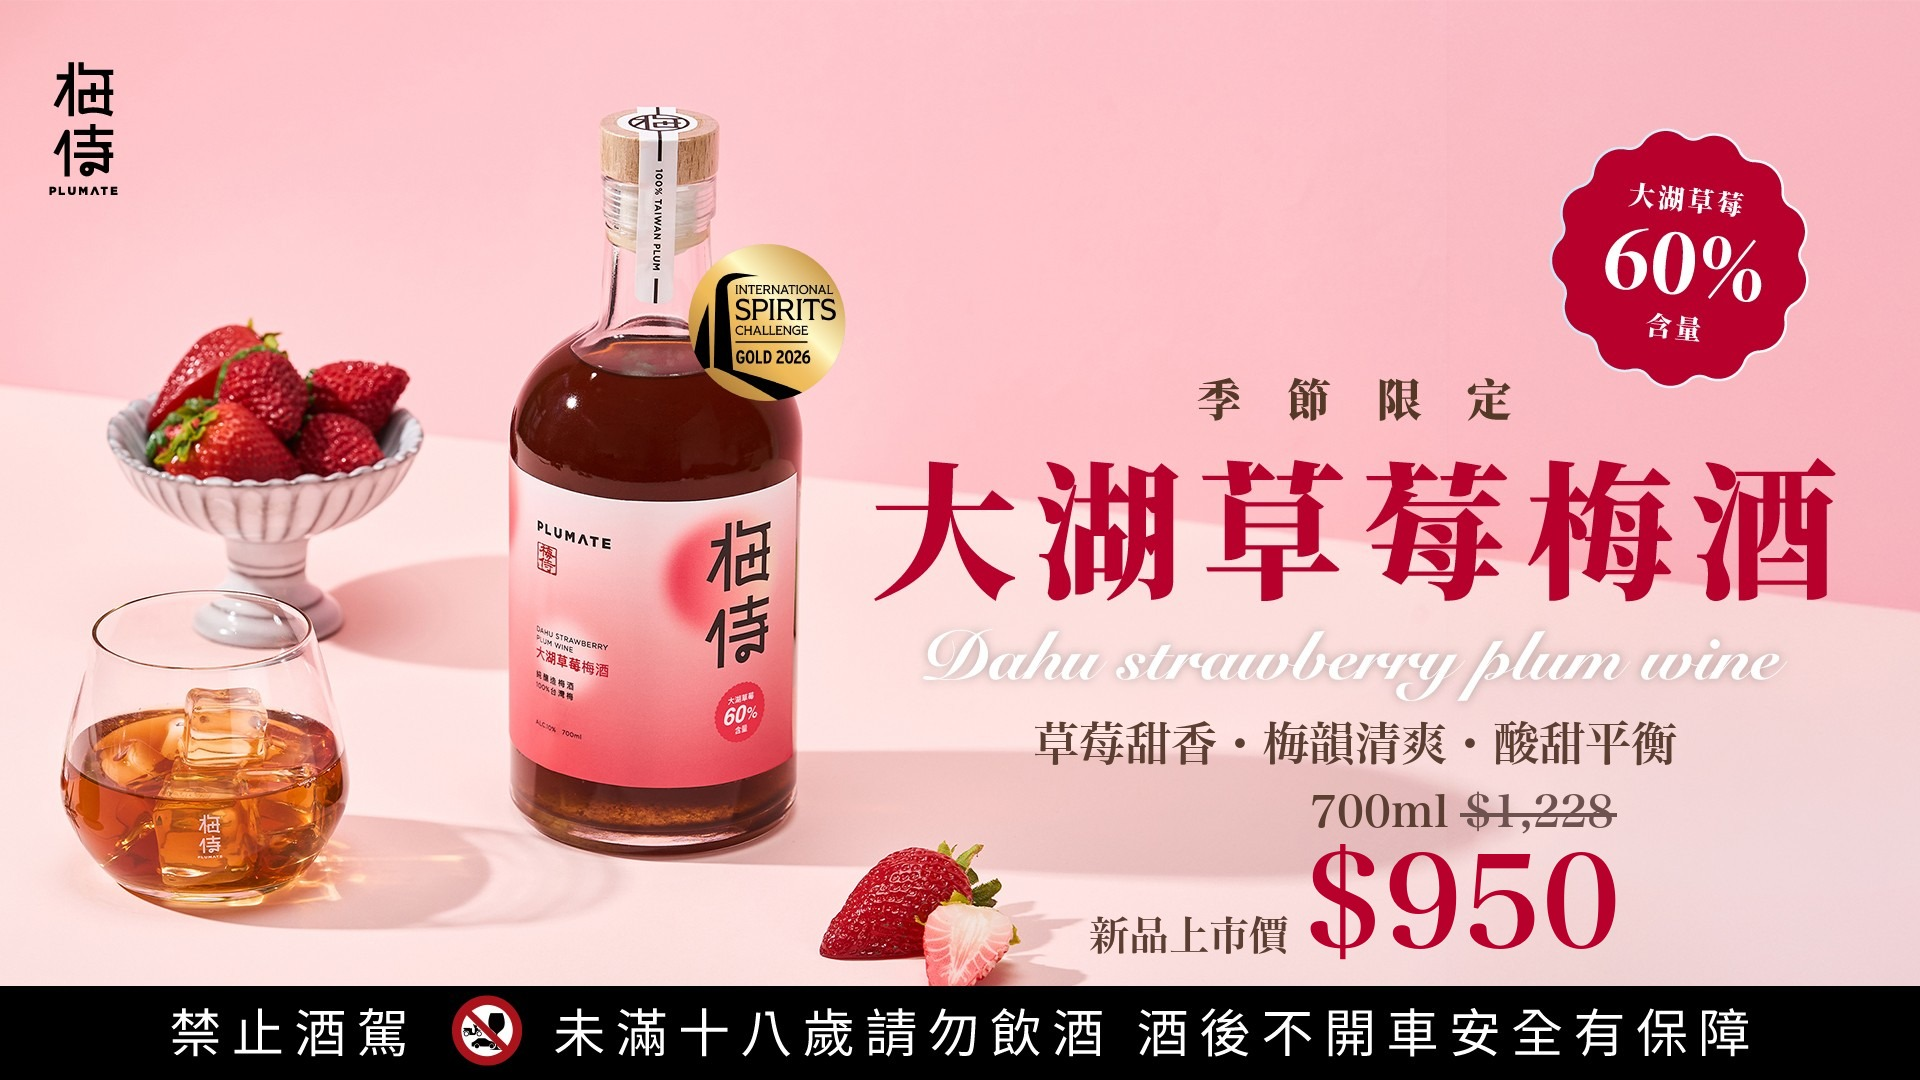
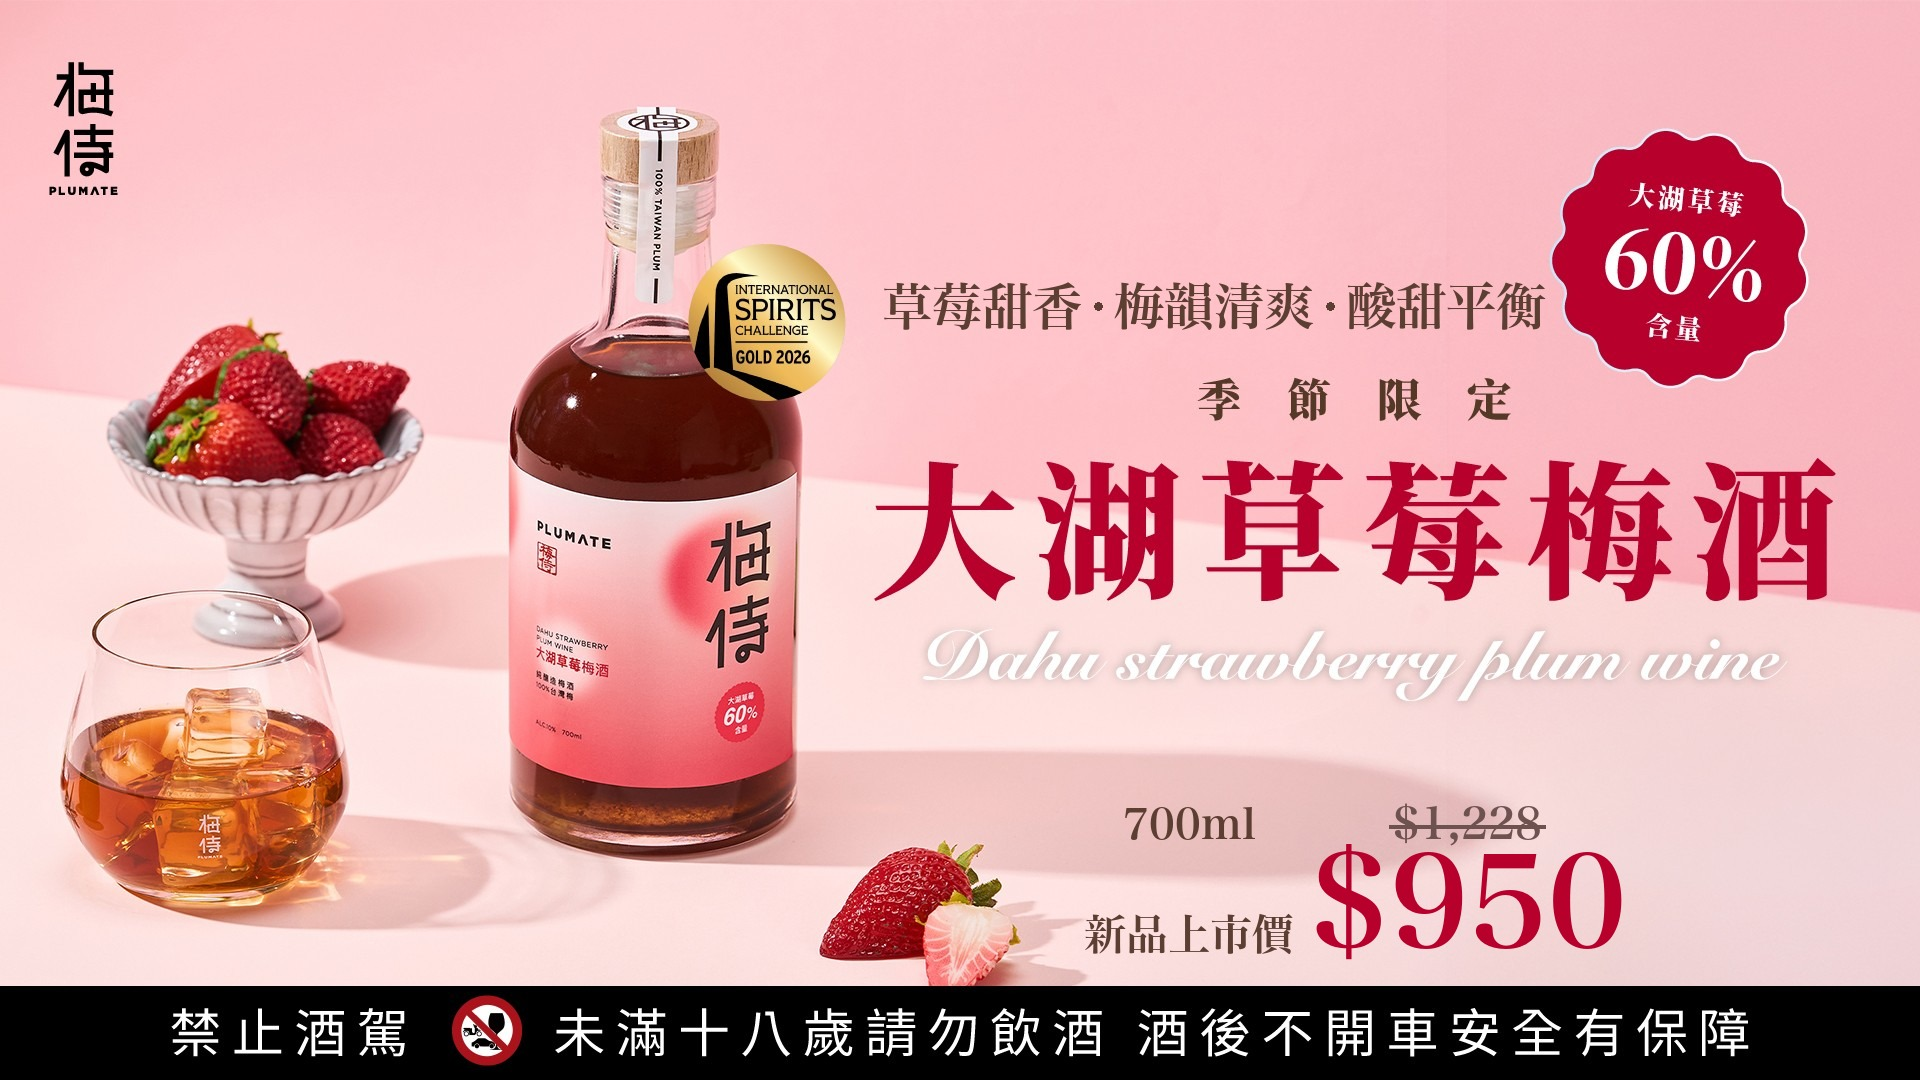
sync: 鏡像同步正式站 20261118-1542

diff --git a/index.html b/index.html
@@ -97,7 +97,7 @@
     <div class="banner-carousel" id="bannerCarousel" aria-label="梅侍活動與新品輪播">
       <div class="bc-track">
         <!-- 新品上市價至 2026/11/30：12/1 起換回無價格版 banner-strawberry-1118.jpg -->
-        <img class="bc-slide" src="assets/banner-strawberry-950-1118.jpg?v=3" alt="季節限定｜大湖草莓梅酒 Dahu strawberry plum wine｜草莓甜香・梅韻清爽・酸甜平衡｜大湖草莓 60% 含量｜2026 ISC 金牌｜700ml 原價 $1,228，新品上市價 $950" />
+        <img class="bc-slide" src="assets/banner-strawberry-950-1118.jpg?v=4" alt="季節限定｜大湖草莓梅酒 Dahu strawberry plum wine｜草莓甜香・梅韻清爽・酸甜平衡｜大湖草莓 60% 含量｜2026 ISC 金牌｜700ml 原價 $1,228，新品上市價 $950" />
         <img class="bc-slide" src="assets/banner-horse-1118.jpg?v=1" alt="年終獻禮｜名畫入瓶，好酒成雙｜雙馬聯名款東方美人茶梅酒・奔馬聯名款凍頂烏龍茶梅酒 700ml｜2瓶 $2,000（單瓶原價 $1,388）現省 $776" />
         <!-- 舊素材（暫停使用）：
         <img class="bc-slide" src="assets/banner-awards2608.jpg?v=2" alt="梅侍榮獲 2026 ISC 國際烈酒競賽 1金3銀｜紅烏龍茶梅酒金牌，碧螺春綠茶・荔枝・玫瑰鹽紅柚梅酒銀牌" />（2026-11-02 下架：比例 2160×1130 被裁到底部警語，待重做 1920×1080 再上）
@@ -223,6 +223,6 @@
     <p class="foot-warn">未成年請勿飲酒｜飲酒過量有礙健康｜酒後不開車</p>
   </footer>
 
-  <script src="app.js?v=58"></script>
+  <script src="app.js?v=59"></script>
 </body>
 </html>

diff --git a/app.js b/app.js
@@ -204,6 +204,7 @@ const BOX_IMAGES = {
   "雙馬／奔馬聯名款 雙瓶組合": "assets/promo-horse-pair-1118.jpg?v=1", // 2026-11-18 改「年終獻禮」（原雙11 圖 promo-horse-pair-1111.jpg）
   "加價購｜香米梅酒（250ml）": "assets/gift-ricewine.png?v=1", // 2026-11 加價購（同滿5000贈品圖）
   "250ml 精選6入獲獎組_v3": "assets/box-six-v3.webp?v=1",
+  "大湖草莓梅酒（700ml）": "assets/promo-strawberry-1118.jpg?v=1", // 2026-11-18 最新活動第二主推
 };
 // 大圖（整張置頂）——最新活動用
 function boxPhotoHTML(name) {
@@ -278,9 +279,10 @@ function promoRows() {
     }
     html += boxPhotoHTML(b.name);
     html += `<div class="catalog-row" data-kind="box" data-name="${esc(label)}" data-spec="" data-pd="${b.pd ?? ""}">
-      <div class="cr-info"><div class="cr-name">${esc(label)}${save}</div><div class="cr-price">${priceInline(b.po, b.pd)}</div></div>
+      <div class="cr-info"><div class="cr-name">${esc(label)}${save}</div><div class="cr-price">${priceInline(b.po, b.pd, b.tag)}</div></div>
       ${stepperHTML()}
     </div>`;
+    if (b.note) html += `<div class="fixed6-box"><div class="box-desc"><b>風味：</b>${esc(b.note)}</div></div>`;
     if (b.kind === "fixed6" && (b.contents || []).length)
       html += `<div class="fixed6-box"><div class="mix-hint">固定內含以下 6 款（不可更換）</div>${b.contents
         .map((n) => `<div class="fixed6-row">・${esc(n)}</div>`)
